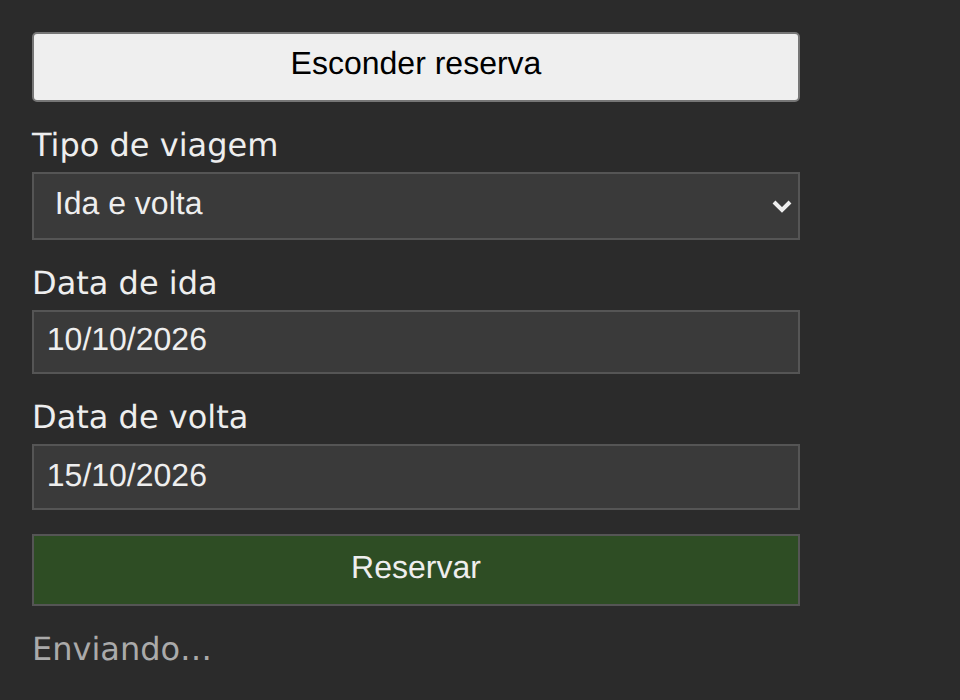
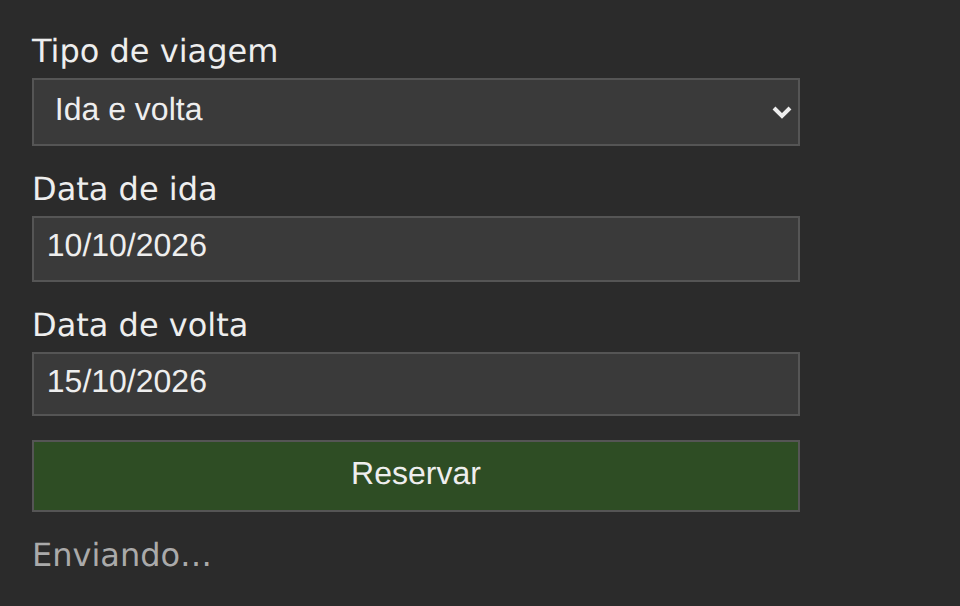
Hospeda a Reserva de passagem no Solid pela página comum
A Reserva de passagem no Solid ainda traz a página com o botão "Esconder
reserva"/"Mostrar reserva", um segundo componente que só existe para o
teste de conformidade tirar o formulário da página, e por isso falha nas
verificações de "Limpeza ao sair da tela", que desde "Confere a limpeza
ao sair da tela pela rota da página, sem botão" saem e voltam pela rota
do hash de implementacoes/pagina.ts (ADR 0043).

A página sai, com o signal "visivel" e o <Show> do formulário, e fica o
par montar e desmontar no idioma da tecnologia: o render do formulário
no contêiner, cujo dispose devolvido roda os onCleanup. O
contêiner #raiz do index.html passa a ser o <main> com a classe do
layout, que a página montava. A limpeza ao sair da tela, no onCleanup,
não muda: é o que se compara.

Com a última tecnologia da Reserva de passagem sem o botão, a regra
.alternar sai do estilo.css comum, que nenhum elemento usa mais.

Conferido com npm run conformidade -- formulario/solid (22 verificações
ok) e com npm run capturas -- --conferir formulario: as 6 cenas saem sem
o botão, idênticas nas quatro tecnologias, e a regra tirada do
estilo.css não muda imagem alguma.

Changed region(s): [[0.0312, 0.0297, 0.8438, 0.9505], [0.8125, 0.1782, 0.8438, 0.2079]]

diff --git a/implementacoes/formulario/solid/src/main.tsx b/implementacoes/formulario/solid/src/main.tsx
@@ -10,6 +10,7 @@ import {
   hoje,
   type TipoDeViagem,
 } from "../../dominio";
+import { hospedar } from "../../../pagina";
 import "../../estilo.css";
 
 function FormularioDeCompra() {
@@ -110,23 +111,4 @@ function FormularioDeCompra() {
   );
 }
 
-// A página: o botão que tira o formulário da página e o põe de volta.
-function ReservaDePassagem() {
-  const [visivel, setVisivel] = createSignal(true);
-  return (
-    <main class="reserva">
-      <button
-        type="button"
-        class="alternar"
-        onClick={() => setVisivel(!visivel())}
-      >
-        {visivel() ? "Esconder reserva" : "Mostrar reserva"}
-      </button>
-      <Show when={visivel()}>
-        <FormularioDeCompra />
-      </Show>
-    </main>
-  );
-}
-
-render(() => <ReservaDePassagem />, document.getElementById("raiz")!);
+hospedar((conteiner) => render(() => <FormularioDeCompra />, conteiner));

diff --git a/implementacoes/formulario/solid/index.html b/implementacoes/formulario/solid/index.html
@@ -6,7 +6,7 @@
     <title>Formulário com Solid</title>
   </head>
   <body>
-    <div id="raiz"></div>
+    <main id="raiz" class="reserva"></main>
     <script type="module" src="/src/main.tsx"></script>
   </body>
 </html>

diff --git a/implementacoes/formulario/estilo.css b/implementacoes/formulario/estilo.css
@@ -18,11 +18,6 @@ body {
   padding: 1rem;
 }
 
-.alternar {
-  padding: 0.4rem;
-  font-size: 1rem;
-}
-
 .formulario label {
   display: grid;
   gap: 0.25rem;
